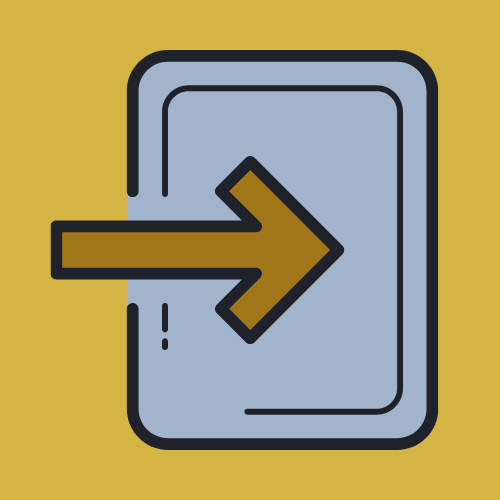
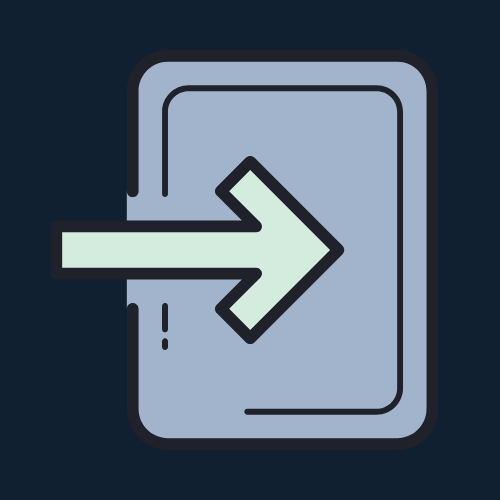
Added css for login.php

diff --git a/login/css/styles.css b/login/css/styles.css
@@ -4,11 +4,11 @@
 
 .login_container {
   width: 50%;
-  background-color: #D4B543  ;
+  background-color: #112031;
 }
 
 .side_picture-container {
-  background-color: #D4B543;
+  background-color: #112031;
   width: 50%;
   height: 50%;
 
@@ -19,18 +19,22 @@
   padding-top: 5%;
   padding-left: 15px;
   padding-right: 15px;
+  color: #D4ECDD;
 }
 
 .login_form {
+  border-color: #D4ECDD;
+  background-color: #345B63;
+  color: #D4ECDD;
   margin-top: 7%;
   margin-left: 12%;
   margin-right: 12%;
   margin-bottom: 7%;
   border: solid;
-  color: black;
   padding-top: 2%;
   padding-bottom: 5%;
-  border-radius: 10px;
+  border-radius: 12px;
+  font-size: large;
 }
 
 .login_form .username {
@@ -53,11 +57,13 @@
   text-align: center;
   padding-top: 3%;
   padding-bottom: 3%;
+  
 }
 
 .login_footer a {
-  color: black;
+  color: #D4ECDD;
 }
+
 .side_picture {
   margin-top: 5%;
   margin-left: 15%;
@@ -66,4 +72,20 @@
   height: 50%;
 }
 
+input {
+  width: 250px;
+  height: 40px;
+}
 
+select {
+  width: 210px;
+  height: 30px;
+}
+
+select:hover {
+  background-color: #152D35;
+}
+
+input:hover {
+  background-color: #152D35;
+}

diff --git a/register/css/styles.css b/register/css/styles.css
@@ -25,7 +25,7 @@
     padding-bottom: 1%;
     padding-left: 2%;
     border: solid;
-    color: black;  
+    color: #D4ECDD;  
     border-radius: 12px;
 }
 
@@ -66,7 +66,7 @@
 }
 
 .register_footer button {
-    background-color: #EFE18A;
+    background-color: white;
     border-color: black;
     border-radius: 12px;
 }

diff --git a/login/login.php b/login/login.php
@@ -1,43 +1,56 @@
 <?php
+    // php variables
     $pageName = 'Log In';
     $folderName = 'login';
+
+    // include the common.php file
     include('../common/common.php');
+    
+    // functions call
     generateHeader($pageName, $folderName);
     generateNavBar($pageName);
 ?>
-            <!-- The login class -->
-            <div class="login_container">
-                <div class="login_container_header">
-                    <h2>Sign In</h2>
-                </div>
-                <div class="login_form ">
-                    <form>
-                        <div class="username">
-                            <i class="fa fa-user icon"></i>
-                            <label for="Username" class="form-label">Username</label>
-                            <input autocomplete="off" type="text" class="form-control" id="Username">
-                            </div>
-                        <div class="password">
-                            <i class="fa fa-key icon"></i>
-                            <label for="Password" class="form-label">Password</label>
-                            <input  autocomplete="off" type="password" class="form-control" id="Password" >
-                        </div>
-                    </form>
-                </div>
-                <div class="login_btn">
-                    <a href="../home/home.html">
-                        <img class="login_image" src="./img/login.png" alt="login" width="90">
-                    </a>
-                </div>
-                <div class="login_footer">
-                    <a href="../register/register.php">Create Account?</a>
-                </div>
-            </div>
-            <div class="side_picture-container">
-                <img class="side_picture" src="./img/side_picture.gif" alt="side_picture" > 
-            </div>
-        </div>
 
+<!-- The login class -->
+<div class="login_container">
+    <!-- Login container header -->
+    <div class="login_container_header">
+        <h2>Sign In</h2>
+    </div>
+    <!-- Login form -->
+    <div class="login_form ">
+        <form>
+            <div class="username">
+                <i class="fa fa-user icon"></i>
+                <label for="Username" class="form-label">Username</label>
+                <input autocomplete="off" type="text" class="form-control" id="Username">
+                </div>
+            <div class="password">
+                <i class="fa fa-key icon"></i>
+                <label for="Password" class="form-label">Password</label>
+                <input  autocomplete="off" type="password" class="form-control" id="Password" >
+            </div>
+        </form>
+    </div>
+    <!-- Login submit button -->
+    <div class="login_btn">
+        <a href="../home/home.html">
+            <img class="login_image" src="./img/login.png" alt="login" width="90">
+        </a>
+    </div>
+    <!-- Option to create account -->
+    <div class="login_footer">
+        <a href="../register/register.php">Create Account?</a>
+    </div>
+</div>
+
+<!-- Side picture container -->
+<div class="side_picture-container">
+    <img class="side_picture" src="./img/side_picture.gif" alt="side_picture" > 
+</div>
+
+<!-- Php function to generate the footer -->
 <?php
+    // function call
     generateFooter($pageName);
 ?>

diff --git a/index.php b/index.php
@@ -105,7 +105,7 @@
       </div>
       <!-- Registration card button -->
       <div class="card-footer card-btn">
-        <button onclick="location.href = '../register/register.php';" >Register</button>
+        <button onclick="location.href = './register/register.php';" >Register</button>
       </div>
     </div>
 
@@ -120,7 +120,7 @@
       </div>
       <!-- Leaderboard card button -->
       <div class="card-footer">
-        <button onclick="location.href = '../rankboard/rankboard.php';">Leader Board</button>
+        <button onclick="location.href = './rankboard/rankboard.php';">Leader Board</button>
       </div>
     </div>
 
@@ -135,7 +135,7 @@
       </div>
       <!-- How to play card button -->
       <div class="card-footer">
-        <button onclick="location.href = '../howtoplay/howtoplay.php';">How to Play</button>
+        <button onclick="location.href = './howtoplay/howtoplay.php';">How to Play</button>
       </div>
     </div>
 
